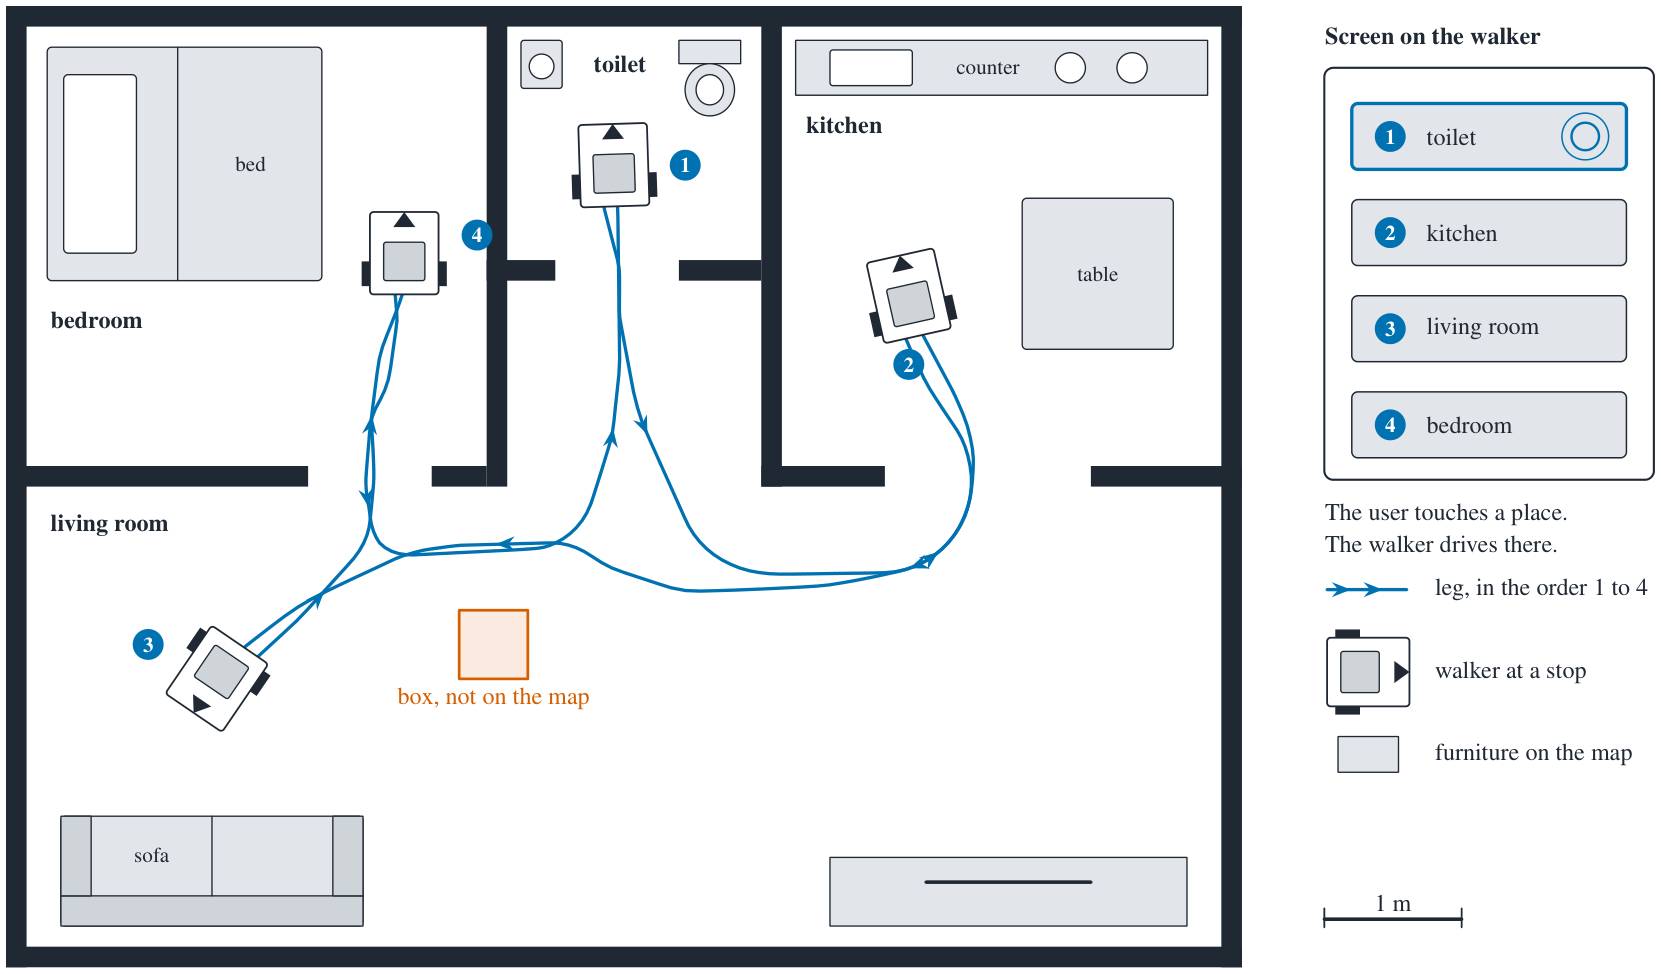
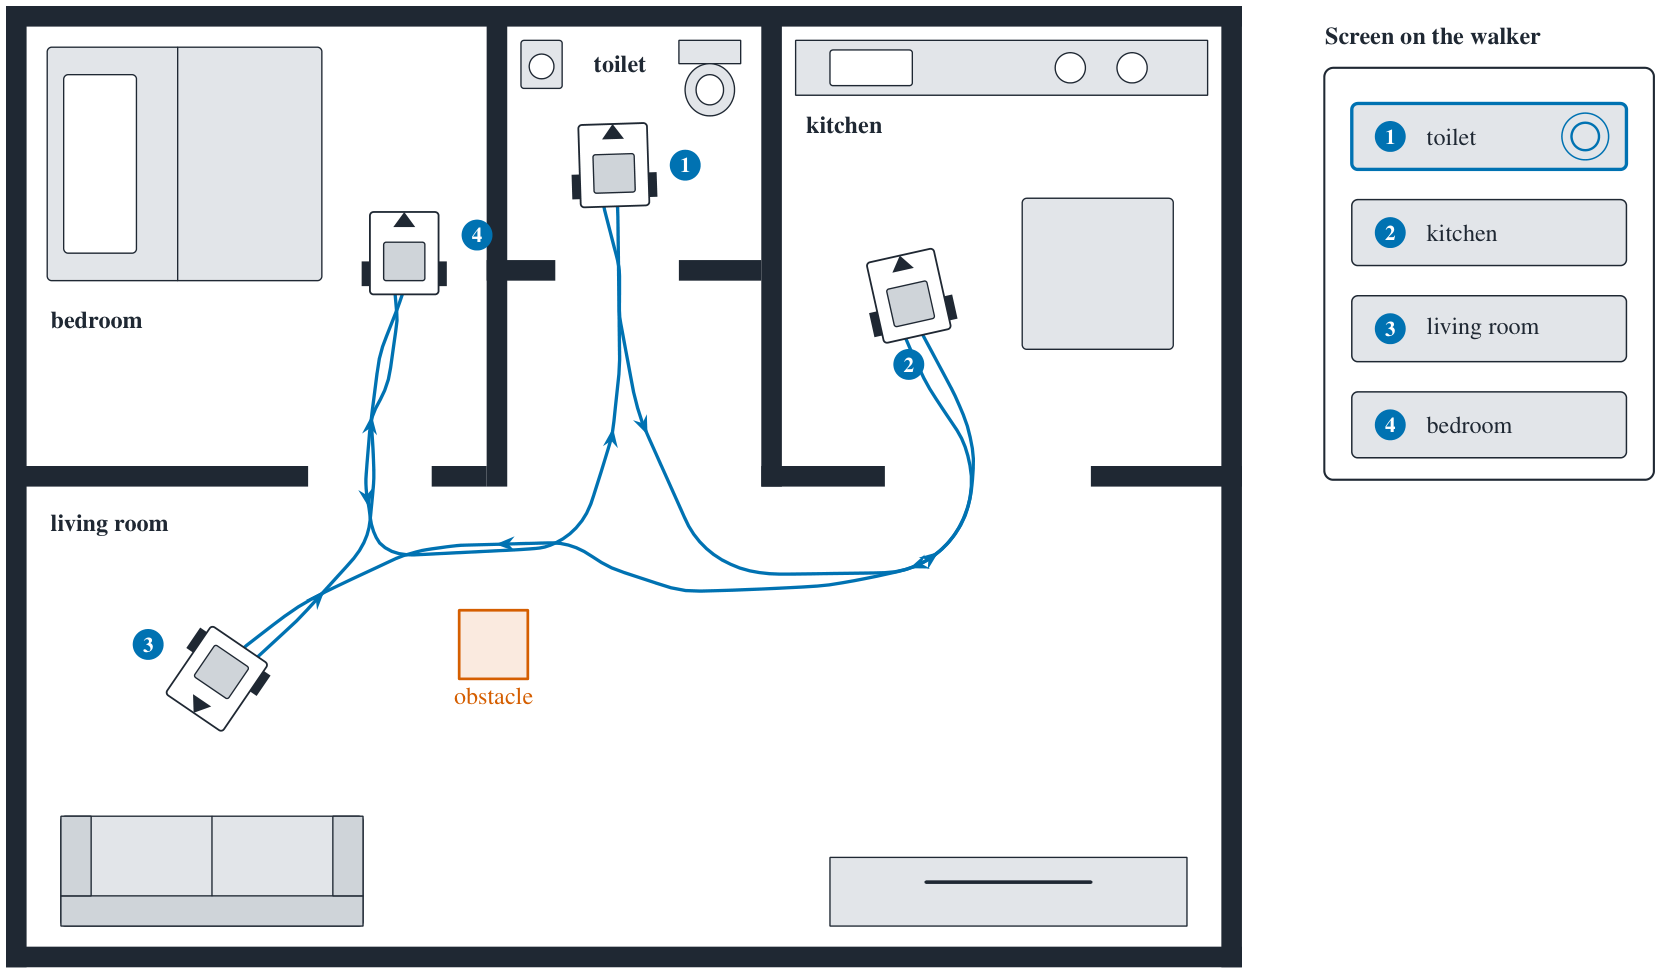
Remove legends and scale bars from the figures

diff --git a/README.md b/README.md
@@ -14,7 +14,7 @@ The prototype was built from September to December 2025 for the 2025 SDGs Social
 
 The walker is meant to be used like this: the user is in the bedroom, touches the toilet on the map, and is taken there. The map is divided into named places. `maps/home_places.yaml` gives each place its area and the pose to stop at, and `ros2/places.py` turns a touch into the place it falls in and that place into a goal.
 
-The figure is a simulated run through a 9 m by 7 m home with 0.9 m doors, from the bedroom to the toilet, the kitchen, the living room and back. All four legs arrive, 24 m in about two minutes, with a box on the way that the map does not contain.
+The figure is a simulated run through a 9 m by 7 m home with 0.9 m doors, from the bedroom to the toilet, the kitchen, the living room and back. All four legs arrive, 24 m in about two minutes, with an obstacle on the way that the map does not contain.
 
 ## What it had to do
 
@@ -57,11 +57,11 @@ Mapping and goal driving are separate modes. Cartographer builds the map from th
 
 **Linear actuators for the seat.** The seat has to lift a person, so a stepper with a lead screw and a hobby servo were compared with linear actuators. The actuators are rated 300 N over a 100 mm stroke at 12 V, cost KRW 25,000 each, and run from a standard DC motor driver.
 
-**A local path search for obstacle avoidance.** The avoidance went through three approaches, each tried in simulation. Marking the beams around each LiDAR return as blocked closed gaps that the walker model fits through. Choosing a heading by how far a walker-wide strip is free got through gaps, but circled in front of a box, because it only looks one step ahead. `local_planner.py` now builds a 5 cm grid from each scan, blocks the cells within the walker radius of a return, makes the next 30 cm expensive and the first 15 cm of that more so, and searches a path to the goal with A*. Two more problems showed up. With a box straight ahead, successive plans alternated between passing on the left and on the right, so the planner now keeps the side it chose, measured against the direction to the goal, until the path is straight again. And in the home simulation the walker turned away from a doorway: cells behind walls counted as free, so a long way round through space it could not see looked cheaper than the door. Only cells that a LiDAR ray has crossed are now free.
+**A local path search for obstacle avoidance.** The avoidance went through three approaches, each tried in simulation. Marking the beams around each LiDAR return as blocked closed gaps that the walker model fits through. Choosing a heading by how far a walker-wide strip is free got through gaps, but circled in front of an obstacle, because it only looks one step ahead. `local_planner.py` now builds a 5 cm grid from each scan, blocks the cells within the walker radius of a return, makes the next 30 cm expensive and the first 15 cm of that more so, and searches a path to the goal with A*. Two more problems showed up. With a box straight ahead, successive plans alternated between passing on the left and on the right, so the planner now keeps the side it chose, measured against the direction to the goal, until the path is straight again. And in the home simulation the walker turned away from a doorway: cells behind walls counted as free, so a long way round through space it could not see looked cheaper than the door. Only cells that a LiDAR ray has crossed are now free.
 
 ## Map
 
-![The saved map, drawn from maps/room1.pgm, with a 5 m scale bar.](docs/map.png)
+![The saved map, drawn from maps/room1.pgm.](docs/map.png)
 
 This is the map the walker saved on 1 December 2025, drawn from `maps/room1.pgm`. Nav2 loads `maps/room1.yaml`, which references this image.
 
@@ -71,9 +71,9 @@ These checks are simulations. Each one imports the planner or odometry module fr
 
 ### Obstacle avoidance
 
-![Simulation, top view to scale: the path through a corridor with three boxes, and the LiDAR returns at one moment.](docs/avoidance.png)
+![Simulation, top view to scale: the path through a corridor with three obstacles, and the LiDAR returns at one moment.](docs/avoidance.png)
 
-`sim/avoidance_sim.py` puts `local_planner.py` in a corridor 2.8 m wide with three boxes. The LiDAR is simulated with 360 beams and Gaussian range noise of 1 cm standard deviation, and the goal is 7.5 m ahead. In this one seeded run, a circular model of 0.30 m radius stops 11 cm from the goal after 37.3 s and 8.7 m of travel, and its closest pass to a wall is 16 cm. `sim/home_sim.py` is the run through the home shown above; there the closest pass is 12 cm, in the doorways. The walker is modelled as a circle.
+`sim/avoidance_sim.py` puts `local_planner.py` in a corridor 2.8 m wide with three obstacles. The LiDAR is simulated with 360 beams and Gaussian range noise of 1 cm standard deviation, and the goal is 7.5 m ahead. In this one seeded run, a circular model of 0.30 m radius stops 11 cm from the goal after 37.3 s and 8.7 m of travel, and its closest pass to a wall is 16 cm. `sim/home_sim.py` is the run through the home shown above; there the closest pass is 12 cm, in the doorways. The walker is modelled as a circle.
 
 ### Wheel odometry
 
